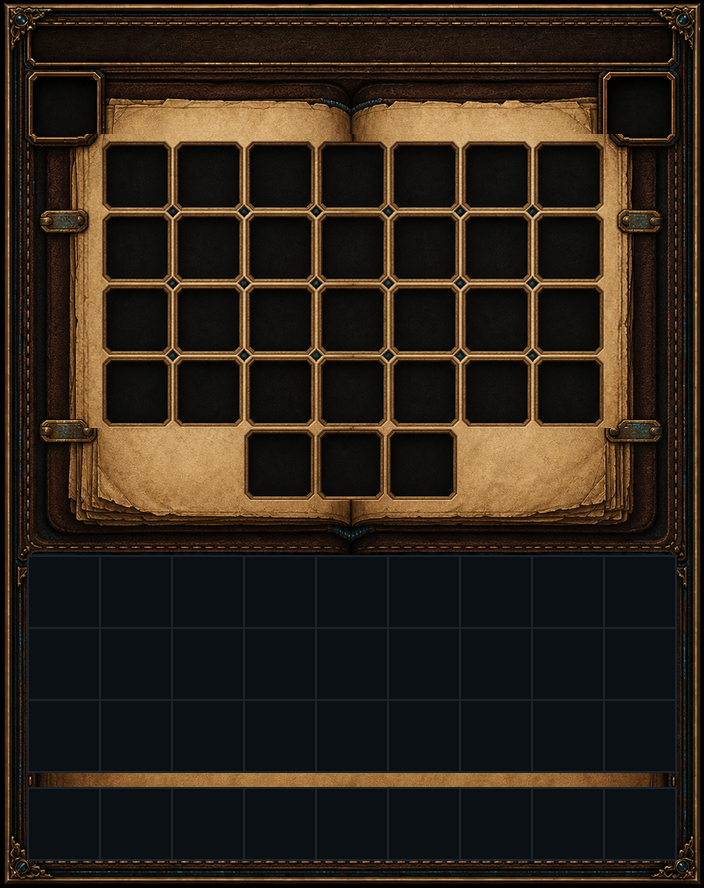
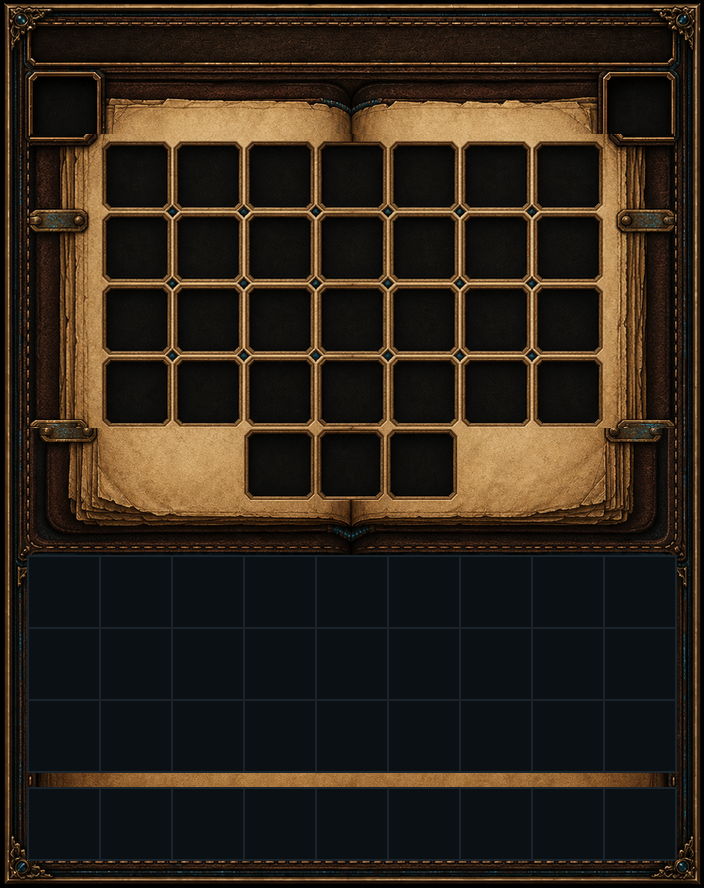
dextab 블록에 좌우 걸쇠·기둥까지 포함 — 장식이 잘리던 문제
격자만 옮기면 경계가 책 기둥·걸쇠 한복판에 떨어져 장식이 직각으로 잘렸다(유저 지적).
격자를 제 위치로 옮기면 왼쪽 장식과 겹칠 수밖에 없는 구조다 — 피치가 4% 작아서
격자를 그만큼 넓혀야 하는데 판에 그 여유가 없다.

그래서 걸쇠·기둥까지 블록에 넣어 **같이 옮긴다**. 장식이 온전히 보존되고, 밀려난
자리는 판 바깥 어두운 테두리라 눈에 띄지 않는다.
  (96,136,616,428) → (52,136,660,428)  좌우 걸쇠 포함

diff --git a/gui-forge/refit_plate.py b/gui-forge/refit_plate.py
@@ -52,8 +52,13 @@ GROUPS = {
         ([0], None, (0, 120)),
     ],
     "dextab": [
+        # ★경계를 격자 바로 옆에 두면 안 된다. 96 으로 잡았더니 확대분이 왼쪽으로 9px
+        #   나가면서 경계가 책 기둥·걸쇠 한복판에 떨어져 장식이 직각으로 잘렸다.
+        #   격자를 제 위치로 옮기면 왼쪽 장식과 겹칠 수밖에 없는 구조라(피치가 4% 작다),
+        #   **걸쇠·기둥까지 블록에 넣어 같이 옮긴다** — 그러면 장식이 온전히 보존되고
+        #   빈자리는 판 바깥 어두운 테두리라 눈에 띄지 않는다.
         ([s for r in range(4) for s in range(10 + r * 9, 17 + r * 9)],
-         (96, 136, 616, 428), (0, 150)),
+         (52, 136, 660, 428), (0, 150)),
     ],
 }
 
